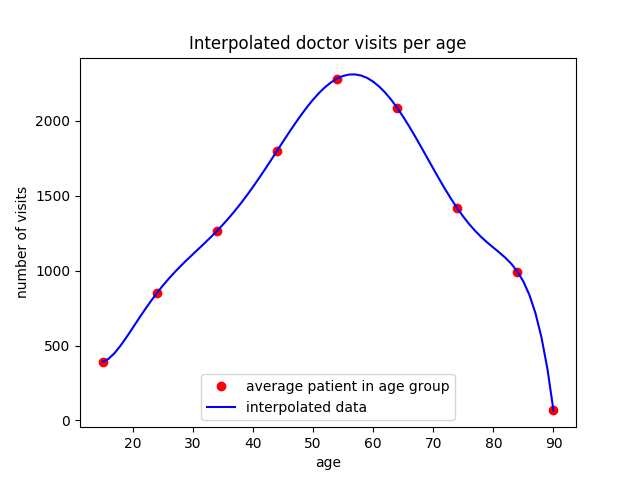
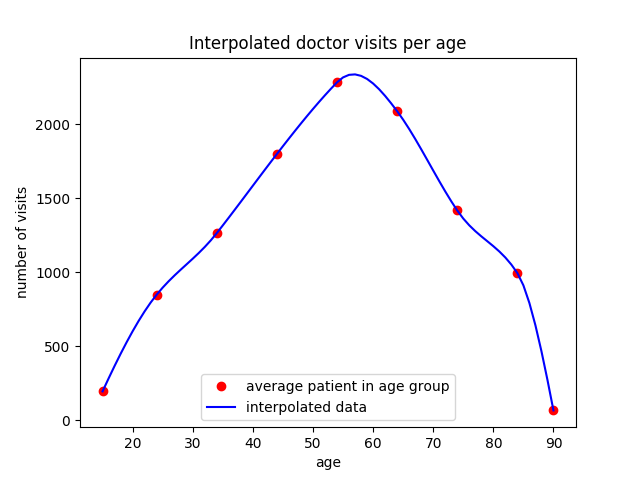
interpolation channged and readme updated

diff --git a/task3/interpolation.py b/task3/interpolation.py
@@ -20,16 +20,16 @@ class Interpolator:
 
         for i in range(9):                               #there are normally 10 ages in an age group (5 in the first and only 1 in the last)
             if i == 0:
-                averageVisits.append(numberOfVisits[i]/5)
+                averageVisits.append((numberOfVisits[i]/5)/2)
             elif i == 8:
                 averageVisits.append(numberOfVisits[i])
             else: averageVisits.append(numberOfVisits[i]/10)
 
         #f = interpolate.Akima1DInterpolator(averageAges, averageVisits)
         #f = interpolate.interp1d(averageAges, averageVisits)
-        f = interpolate.KroghInterpolator(averageAges, averageVisits)       #best mse
+        #f = interpolate.KroghInterpolator(averageAges, averageVisits)
         #f = interpolate.PchipInterpolator(averageAges, averageVisits)
-        #f = interpolate.CubicSpline(averageAges, averageVisits)
+        f = interpolate.CubicSpline(averageAges, averageVisits)                     #best mse
 
         allAges = np.arange(15, 91, 1)    #values are from 15 to 90
 

diff --git a/task3/linearRegression.py b/task3/linearRegression.py
@@ -105,7 +105,7 @@ class LinearRegressor:
         systolicBP_data = []      #systolic blood pressure
         diastolicBP_data = []     #diastolic blood pressure
         for idx in range (0, len(data)):
-            tuple = (data[idx][0], data[idx][1], data[idx][2], data[idx][3], data[idx][4], data[idx][5], data[idx][6],
+            tuple = (data[idx][0], data[idx][1], data[idx][2], data[idx][3], data[idx][5], data[idx][6],
                      data[idx][7])
             other_data.append(tuple)
             systolicBP_data.append(data[idx][8])

diff --git a/README.md b/README.md
@@ -261,8 +261,7 @@ With python post-processing applied on the query result.
 Run "python createCharts.py" with Python 3 to create following plots:
 
 First part:
-- total doctor visits of different age groups:
-The average age for e.g. the age group 0 - 9 is four years and those people will visit doctors in average 1/10 of the total number of visits of that age group. It's different for the first (only data for patients 15-19 years) and the last (only 90 year old patients) age group. Those average patients are marked with a red dot. Their data gets interpolated to show visits per age:
+Total doctor visits of different age groups:
 
 ![alt text](task3/plots/doctorVisitsPerAgeGroup.png)
 
@@ -289,18 +288,24 @@ The data is accessed with following query and postprocessed in python:
     ORDER BY "Transcript"."VisitYear" - "Patient"."YearOfBirth" ASC
 ```
 
+The average age for e.g. the age group 20 - 29 is 24 years and those people will visit doctors in average 1/10 of the total number of visits of that age group. It's different for the first (only data for patients 15-19 years) and the last (only 90 year old patients) age group. Those average patients are marked with a red dot. Their data gets interpolated to show visits per age:
 
-- through that data get the interpolated doctor visits per age
 ![alt text](task3/plots/interpolatedDoctorVisits.png)
 
-- comparance of the interpolated and the real values: The data gets compared to the actual data: The achieved Mean Squared Error is about 15157 and the Root Mean Squared Error about 123:
+For the interpolation we used the SciPy library and got the best results with its "CubicSpline" method. This interpolation technique
+creates splines in form of cubic functions between each of two neighbouring points. To get a smooth transition between two splines the 1st and 2nd
+derivation have to be identical at the joins of those splines.
+
+The data gets compared to the actual data: 
 
 ![alt text](task3/plots/interpolatedVsRealDoctorVisits.png)
+
+The achieved Mean Squared Error is about 13808.5 and the Root Mean Squared Error about 117.5.
 
 Second part:
 
 We used 90% of the data to train and 10% to test our model for both Diastolic and Systolic Blood Pressure. The plots show the whole testing data or only 100 data points to have a more detailed look.
-The achieved R^2 for Systolic Blood Pressure was 0.0282854713335, for Diastolic Blood Pressure  0.021655668377:
+The achieved R^2 for Systolic Blood Pressure was 0.028, for Diastolic Blood Pressure  0.021:
 
 We used this query to access the data for Smoking Status, BMI ,Age and Blood Pressures:
 
@@ -317,7 +322,7 @@ We used this query to access the data for Smoking Status, BMI ,Age and Blood Pre
 ```
 
 Plots for systolic blood pressure:
-- a comparance of predicted blood pressure data (through Smoking Status, BMI and Age) and the actual data (for 20% of the whole data set):
+- a comparance of predicted blood pressure data (through Smoking Status, BMI and Age) and the actual data (for 10% of the whole data set):
 
 ![alt text](task3/plots/PredictedVsRealBPSystolic.png)
 
@@ -333,7 +338,7 @@ Plots for diastolic blood pressure:
 ![alt text](task3/plots/PredictedVsRealBPDiastolicSmall.png)
 
 
-By additionally using the Height, Weight, Respiratory Rate, Heart Rate and Temperature data of patients the achieved R^2 for Systolic Blood Pressure raised to 0.0437444633807, for Diastolic Blood Pressure to 0.0525840805308. This coefficient of determination is still quite low, but makes totally sense because there are way more factors that can influence the blood pressure of a patient. The model averages its predictions around a healthy blood pressure of about 120 to 80. This means we can’t predict exact blood pressures with the given data:
+By additionally using the Height, Weight, Respiratory Rate, Heart Rate and Temperature data of patients the achieved R^2 for Systolic Blood Pressure raised to 0.043, for Diastolic Blood Pressure to 0.052. This coefficient of determination is still quite low, but makes totally sense because there are way more factors that can influence the blood pressure of a patient. The model averages its predictions around a healthy blood pressure of about 120 to 80. This means we can’t predict exact blood pressures with the given data:
 
 ```sql
     SELECT "SmokeCode", "BMI" , "Age", "Height", "Weight", "RespiratoryRate", "HeartRate", "Temperature", "SystolicBP", "DiastolicBP"
@@ -348,7 +353,7 @@ By additionally using the Height, Weight, Respiratory Rate, Heart Rate and Tempe
 ```
 
 Plots for systolic blood pressure:
-- a comparance of predicted blood pressure data (through Smoking Status, BMI, Age, Height, Weight, Respiratory Rate, Heart Rate and Temperature) and the actual data (for 20% of the whole data set):
+- a comparance of predicted blood pressure data (through Smoking Status, BMI, Age, Height, Weight, Respiratory Rate, Heart Rate and Temperature) and the actual data (for 10% of the whole data set):
 
 ![alt text](task3/plots/PredictedVsRealBPSystolicExtra.png)
 
@@ -363,3 +368,12 @@ Plots for diastolic blood pressure:
 
 ![alt text](task3/plots/PredictedVsRealBPDiastolicSmallExtra.png)
 
+So how are the different variables influencing the solution: 
+- Smoking Status influence is quite small --> weird codes
+- BMI influence is quite small --> BMI is a bad indicator in general (e.g. body builders)
+- Age has as expected a big influence (0.014 / 0.040)
+- Height influence is small as expected
+- Weight has as expected a big influence (0.037 / 0.038)
+- Respiratory Rate influence is quite small
+- Heart Rate would probably be a good indicator, but is always 0 in the data set
+- Temperature influence is quite small
